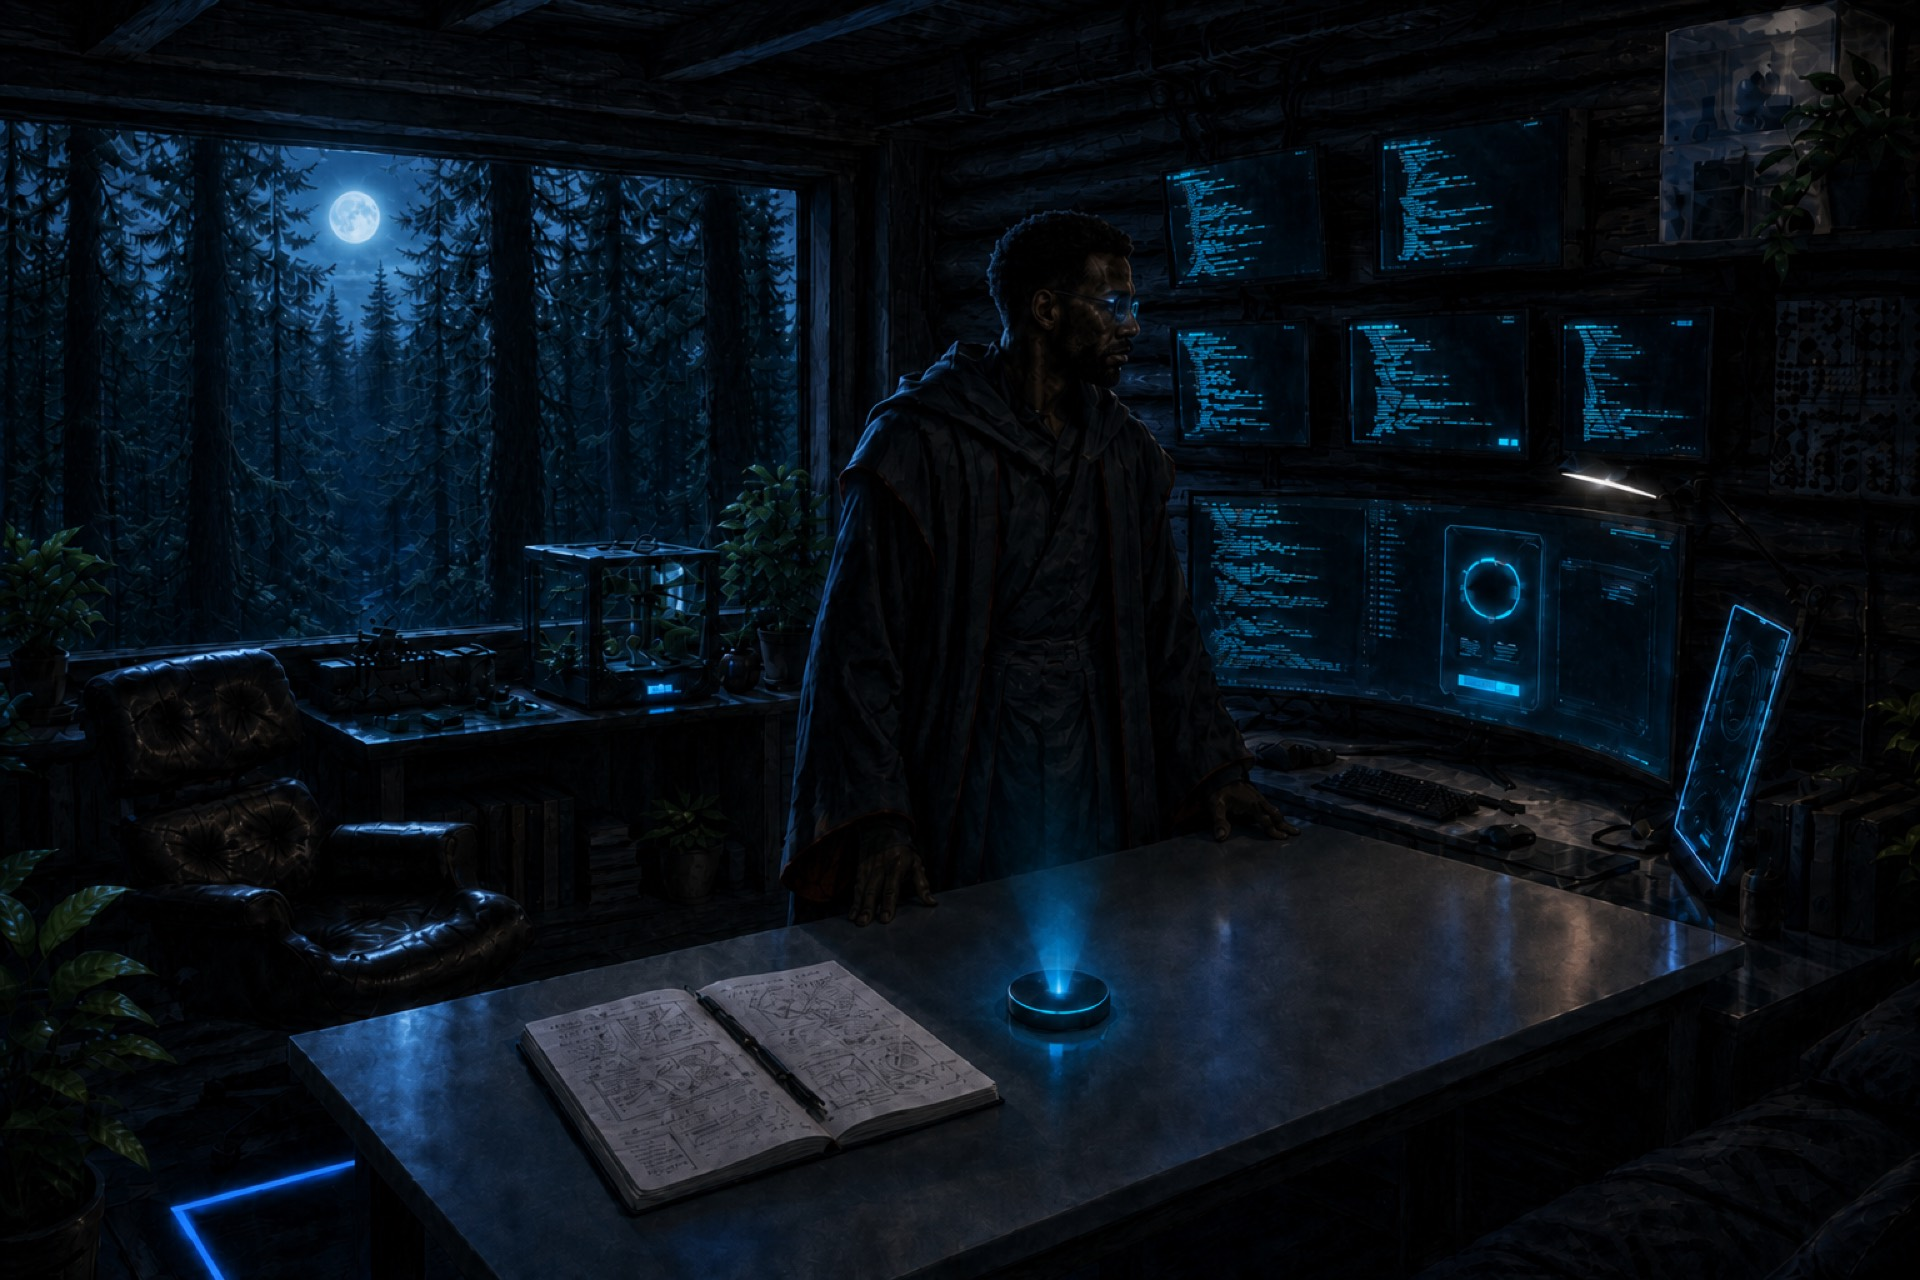
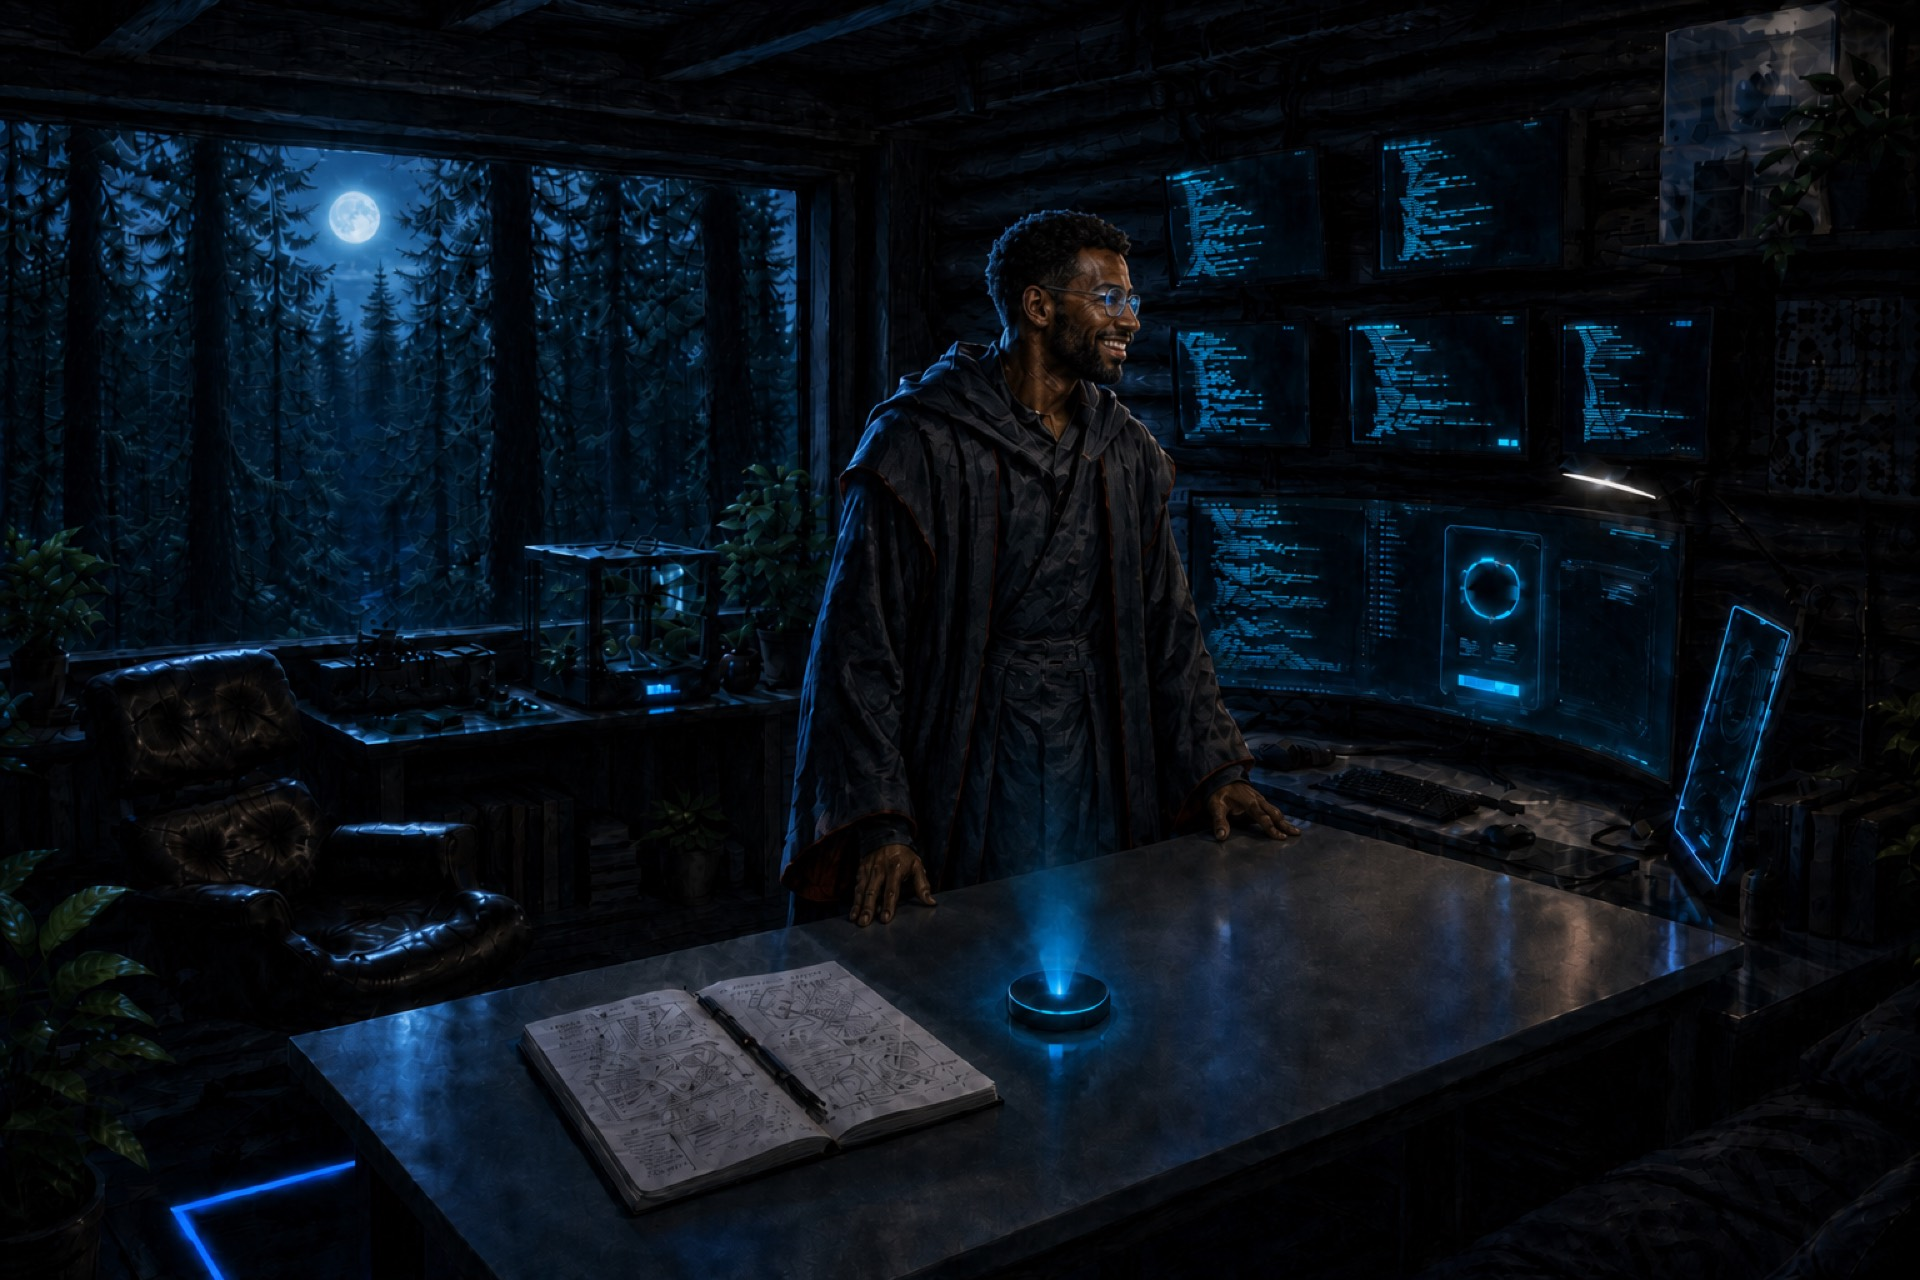
Lift the sketchbook itself when Troutt is tapped
The tap animation was still flying the old Troutt phone card, which read as
an unrelated card appearing rather than the notebook on the desk opening up.
The plate is now a window onto the painting, cropped to the sketchbook, so the
copy that flies to centre is the sketchbook, in the right day or night light.

Also brightens the key light on Caelum's face so his features and smile read,
and points the daytime sky glow at the sun the artwork actually paints.

diff --git a/site.css b/site.css
@@ -179,8 +179,8 @@ html[data-sky="day"] .lab-photo--day {
 }
 
 html[data-sky="day"] .sky-glow {
-    left: 18.5%;
-    top: 16.9%;
+    left: 17.4%;
+    top: 17.8%;
     width: 11%;
     background: radial-gradient(circle, color-mix(in oklab, #ffd48a 45%, transparent) 0%, transparent 64%);
 }
@@ -413,18 +413,33 @@ html[data-sky="day"] .sky-glow {
 /* Invisible until it is cloned for the flight to the centre of the screen. */
 .notebook-plate {
     position: absolute;
-    left: 50%;
-    top: 50%;
-    width: 34%;
-    transform: translate(-50%, -50%);
+    inset: 0;
+    overflow: hidden;
     opacity: 0;
     pointer-events: none;
 }
 
-.notebook-plate img {
-    display: block;
-    width: 100%;
-    height: auto;
+/* A window onto the painting: the photo is blown up to full scene size and
+   pushed off-frame so only the sketchbook shows through the plate. Percentages
+   are the notebook box (27%, 74.5%, 25%, 14.5%) inverted, and they hold when
+   the plate is cloned because the clone keeps the same pixel size. */
+.notebook-photo {
+    position: absolute;
+    left: -108%;
+    top: -513.8%;
+    width: 400%;
+    height: 689.7%;
+    /* The global `img { max-width: 100% }` would clamp the blow-up back to the
+       plate width and collapse the crop, so opt this one image out. */
+    max-width: none;
+    object-fit: fill;
+    opacity: 0;
+    transition: opacity 1.2s ease;
+}
+
+html[data-sky="night"] .notebook-photo--night,
+html[data-sky="day"] .notebook-photo--day {
+    opacity: 1;
 }
 
 .notebook .hologram-caption {
@@ -594,6 +609,20 @@ html[data-sky="day"] .sky-glow {
     width: 100%;
     height: 100%;
     object-fit: contain;
+}
+
+/* The sketchbook copy that lifts off the desk. No hologram chrome — it is a
+   physical object, so it just picks up depth as it rises. */
+.notebook-fly {
+    position: fixed;
+    z-index: 60;
+    margin: 0;
+    overflow: hidden;
+    border-radius: 0.4rem;
+    box-shadow: 0 2rem 4rem color-mix(in oklab, black 70%, transparent);
+    transform-origin: center;
+    pointer-events: none;
+    will-change: transform, opacity;
 }
 
 .sheet--copy {

diff --git a/index.html b/index.html
@@ -13,7 +13,7 @@
     <link rel="preconnect" href="https://fonts.googleapis.com">
     <link rel="preconnect" href="https://fonts.gstatic.com" crossorigin>
     <link href="https://fonts.googleapis.com/css2?family=Fraunces:opsz,wght@9..144,500;9..144,600&family=Outfit:wght@400;500;600;700&display=swap" rel="stylesheet">
-    <link rel="stylesheet" href="site.css?v=14">
+    <link rel="stylesheet" href="site.css?v=15">
     <style>html,body{background:#07080c;color:#F5F3EE}</style>
 </head>
 <body>
@@ -67,8 +67,8 @@
             <button class="notebook" type="button" data-product="troutt">
                 <span class="notebook-glow" aria-hidden="true"></span>
                 <span class="notebook-plate" aria-hidden="true">
-                    <img src="images/troutt-notes.jpg" alt="" width="900" height="1955">
-                    <span class="hologram-scan"></span>
+                    <img class="notebook-photo notebook-photo--night" src="images/lab-night.jpg" alt="" width="1920" height="1280">
+                    <img class="notebook-photo notebook-photo--day" src="images/lab-day.jpg" alt="" width="1920" height="1280">
                 </span>
                 <span class="hologram-caption">
                     <span class="hologram-name">troutt</span>
@@ -180,6 +180,6 @@
         </div>
     </template>
 
-    <script src="main.js?v=9" type="module"></script>
+    <script src="main.js?v=10" type="module"></script>
 </body>
 </html>

diff --git a/main.js b/main.js
@@ -103,7 +103,7 @@ function launchHologram(button) {
 
   const from = plate.getBoundingClientRect();
   const clone = plate.cloneNode(true);
-  clone.className = "hologram-fly";
+  clone.className = plate.classList.contains("notebook-plate") ? "notebook-fly" : "hologram-fly";
   clone.style.left = `${from.left}px`;
   clone.style.top = `${from.top}px`;
   clone.style.width = `${from.width}px`;
@@ -111,9 +111,11 @@ function launchHologram(button) {
   document.body.appendChild(clone);
   button.classList.add("is-launching");
 
+  // Caps on both axes so a wide sketchbook and a tall phone plate both land at
+  // a comparable size.
   const grow = Math.min(
-    (window.innerHeight * 0.66) / from.height,
-    (window.innerWidth * 0.42) / from.width
+    (window.innerHeight * 0.62) / from.height,
+    (window.innerWidth * 0.55) / from.width
   );
   const dx = window.innerWidth / 2 - (from.left + from.width / 2);
   const dy = window.innerHeight / 2 - (from.top + from.height / 2);
